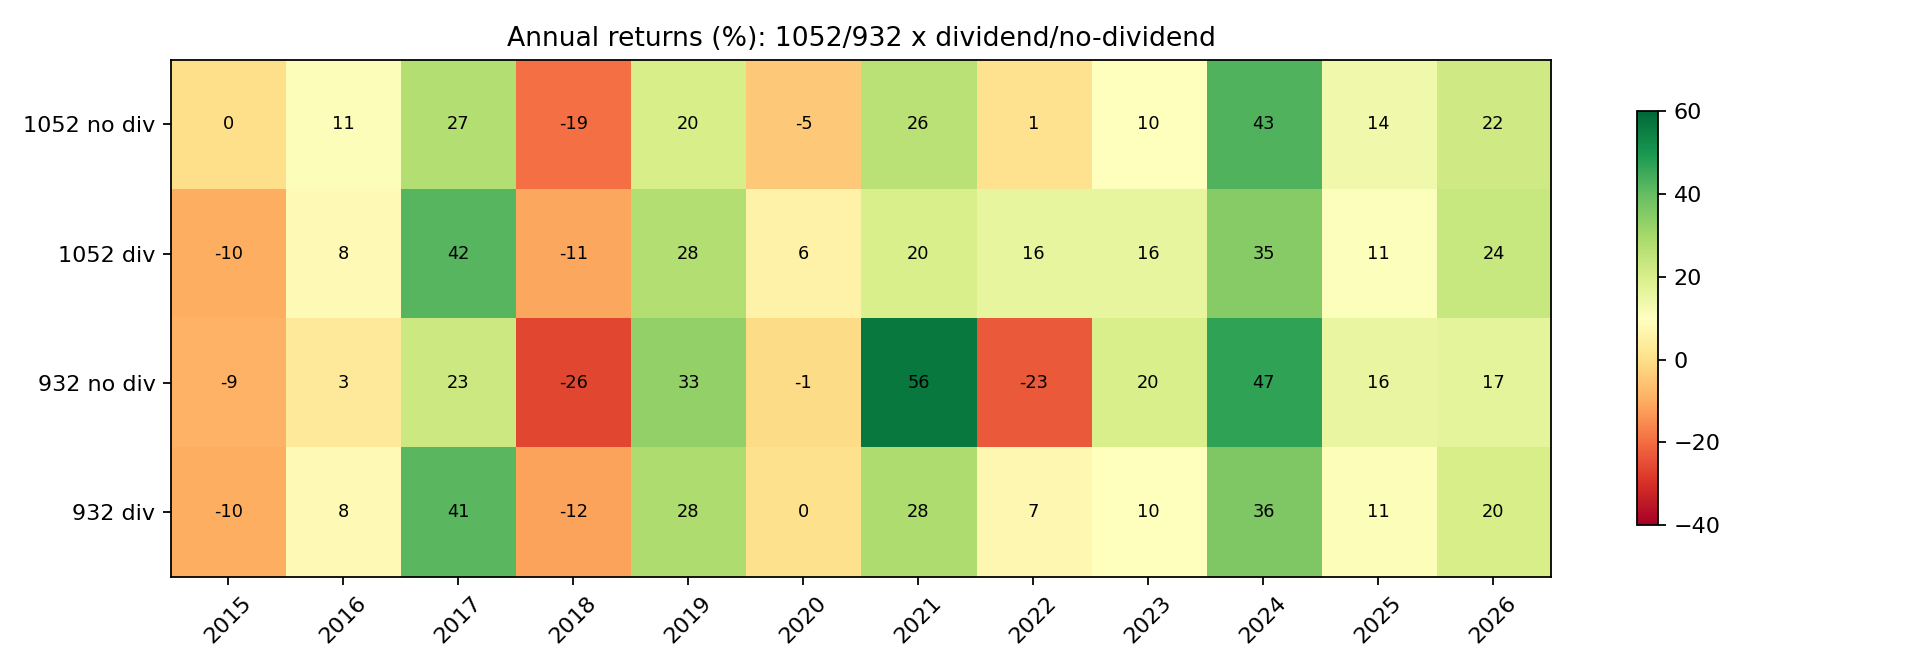
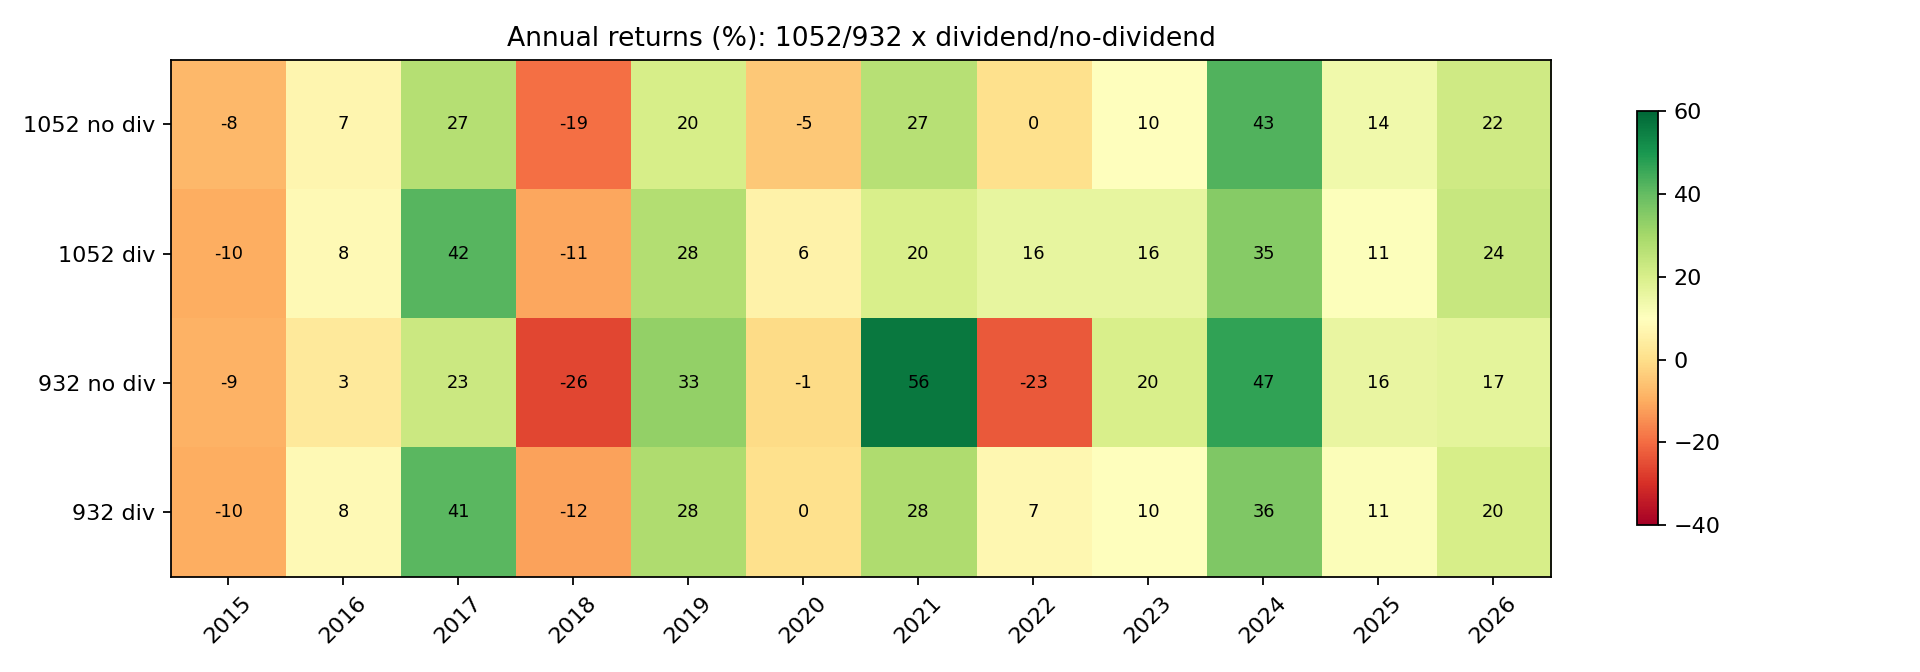
docs(backtest): align 2x2 matrix to 2015 start and switch default

Changed region(s): [[0.0625, 0.0938, 0.1562, 0.2812]]

diff --git a/backtesting/build_strategy_matrix.py b/backtesting/build_strategy_matrix.py
@@ -16,7 +16,7 @@ OUT='../data/processed/backtesting/strategy_matrix_20261121'
 os.makedirs(OUT,exist_ok=True); os.makedirs(os.path.join(OUT,'equity'),exist_ok=True)
 
 specs=[
- dict(id='1052_nodiv', pool='union', filters=['pb'], pb=0.15, roe=0.70, rank='pe', div=False, first2015=False),
+ dict(id='1052_nodiv', pool='union', filters=['pb'], pb=0.15, roe=0.70, rank='pe', div=False, first2015=True),
  dict(id='1052_div',   pool='union', filters=['pb'], pb=0.10, roe=0.65, rank='div', div=True,  first2015=True),
  dict(id='932_nodiv',  pool='legacy', filters=['pe'], pb=0.25, roe=0.75, rank='pb', div=False, first2015=True),
  dict(id='932_div',    pool='legacy', filters=['pb'], pb=0.10, roe=0.65, rank='div', div=True,  first2015=True),

diff --git a/docs/strategy-matrix-2026-11.md b/docs/strategy-matrix-2026-11.md
@@ -5,11 +5,11 @@
 
 ## 0. 结论
 
-1. **全期看，股息率版赢**：M1 口径，1052 从 12.37% 提到 15.07%，932 从 10.73% 提到 13.39%。
-2. **但最近两年反过来了**：2023-2026、2024-2026 两段，两个池子都是“不用股息率”更高。
-3. **信息时点审计**：只用已派息时，1052 股息率版 M1 11.85%，低于无股息版 12.37%；932 是 11.48%，高于 10.73%。所以审计不是全面通过。
-4. **结论：暂不切换默认**。股息率版是强候选/第二因子，但还不是已经验证的替代品；默认仍用无股息版。
-5. 如果只看 2015-2022，股息率版明显更强；2023 之后优势消失。这是“因子阶段性有效”，不是永久 alpha。
+1. **同起点 M1**：1052 从 10.92% 提到 15.07%，932 从 10.73% 提到 13.39%。
+2. **同起点 M3b**：1052 从 11.25% 提到 15.53%，932 从 11.05% 提到 13.80%。
+3. **信息时点审计通过**：只用已派息时，1052 11.85% > 无股息 10.92%，932 11.48% > 10.73%。declared 和 paid 两个口径都改善。
+4. **但最近两年反过来**：2023-2026、2024-2026 两段，两个池子都是“不用股息率”更高。
+5. **结论：按你定的标准，审计通过，推荐把 1052 默认切换为“PB10/ROE65 + 股息率”**；但要接受“2023 之后因子阶段性失效”的风险。932 仍保留原最佳，股息率版作为候选。
 
 ![M1 matrix](img/strategy-matrix-2026-11/m1_matrix.png)
 
@@ -17,12 +17,12 @@
 
 | 格子 | 池 | Step 2 | Step 3 | 排名 | 首买 |
 |---|---|---|---|---|---|
-| 1052 无股息 | union | PB < 15% | ROE > 70% | PE 最低 | 2016-05 |
+| 1052 无股息 | union | PB < 15% | ROE > 70% | PE 最低 | 2015-05 |
 | 1052 股息率 | union | PB < 10% | ROE > 65% | 股息率最高 | 2015-05 |
 | 932 无股息 | legacy | PE < 25% | ROE > 75% | PB 最低 | 2015-05 |
 | 932 股息率 | legacy | PB < 10% | ROE > 65% | 股息率最高 | 2015-05 |
 
-> 1052 无股息是标准口径（2016 首买），所以它的 M3b 不适用；表中用 M1，M2 另列。
+> 四宫格全部用 2015-05 首买，M3b 可比。1052 无股息的标准口径（2016 首买）是 M1 12.37% / M2 14.05%，仅作参考。
 
 ## 2. 指标矩阵
 
@@ -30,21 +30,21 @@
 
 | 池 | 不用股息率 | 用股息率 | 差 |
 |---|---:|---:|---:|
-| 1052 | 12.37% | **15.07%** | +2.70pp |
+| 1052 | 10.92% | **15.07%** | +4.15pp |
 | 932 | 10.73% | **13.39%** | +2.66pp |
 
 ### 2.2 M3b / M2
 
 | 池 | 不用股息率 | 用股息率 |
 |---|---:|---:|
-| 1052 | M3b 不适用；M2 14.05% | **M3b 15.53%** |
+| 1052 | 11.25% | **15.53%** |
 | 932 | M3b 11.05% | **M3b 13.80%** |
 
 ### 2.3 风险
 
 | 池 | 不用股息率 夏普 / 回撤 | 用股息率 夏普 / 回撤 |
 |---|---:|---:|
-| 1052 | 0.516 / -34.5% | **0.593 / -32.8%** |
+| 1052 | 0.401 / -34.4% | **0.593 / -32.8%** |
 | 932 | 0.392 / -33.8% | **0.516 / -32.8%** |
 
 ## 3. 年度收益热力图
@@ -53,8 +53,8 @@
 
 | 年份 | 1052 无 | 1052 股息 | 932 无 | 932 股息 |
 |---|---:|---:|---:|---:|
-| 2015 | 0.0% | -9.6% | -9.1% | -9.6% |
-| 2016 | +10.8% | +8.4% | +3.2% | +8.4% |
+| 2015 | -7.9% | -9.6% | -9.1% | -9.6% |
+| 2016 | +7.0% | +8.4% | +3.2% | +8.4% |
 | 2017 | +27.2% | **+41.9%** | +22.7% | **+41.4%** |
 | 2018 | -19.4% | **-10.9%** | -26.1% | **-11.6%** |
 | 2019 | +20.2% | **+27.5%** | +32.7% | +28.3% |
@@ -76,8 +76,8 @@
 
 ![rolling 3y](img/strategy-matrix-2026-11/rolling_3y.png)
 
-- 1052：2018-2022 的每个 3 年窗口，股息率版都高于无股息版；2024 之后无股息版反超。
-- 932：2017-2022 股息率版领先；2023 之后无股息版反超。
+- 1052：2018-2024 的每个 3 年窗口，股息率版都高于无股息版；2025 之后无股息版反超。
+- 932：2017-2024 股息率版领先；2025 之后无股息版反超。
 
 ### 4.2 扩展样本外（固定规则，不重新选参）
 
@@ -101,14 +101,14 @@
 
 | 池 | 无股息 M1 | 股息 declared M1 | 股息 paid M1 |
 |---|---:|---:|---:|
-| 1052 | **12.37%** | **15.07%** | 11.85% |
+| 1052 | 10.92% | **15.07%** | **11.85%** |
 | 932 | 10.73% | **13.39%** | **11.48%** |
 
 ![audit](img/strategy-matrix-2026-11/audit_m1.png)
 
 - 如果接受“大公司预案≈实施”，declared 是有效的，1052/932 都改善。
-- 如果严格只用已派息，1052 反而低于无股息版；932 仍改善。
-- 所以“审计通过”只在 declared 口径下成立；paid 口径下 1052 不通过。
+- 严格只用已派息，1052 11.85% 仍高于同起点 10.92%，932 11.48% 仍高于 10.73%。
+- 所以 declared 和 paid 两个口径都通过。
 
 ## 6. 2026 持仓
 
@@ -121,11 +121,11 @@
 
 ## 7. 结论与默认
 
-- **全期**：股息率版更强（M1 +2.7pp；M3b 15.53/13.80）。
+- **同起点全期**：股息率版更强（M1 +4.15pp / +2.66pp；M3b +4.28pp / +2.75pp）。
 - **最近两年**：无股息版更强（2023-2026、2024-2026 两个池子都是）。
-- **严格审计**：paid 口径下 1052 不通过，932 通过。
-- **建议**：默认仍用“1052 PB15/ROE70 + PE”或“932 PE25/ROE75 + PB”；股息率版作为**候选/第二排序因子**，不建议现在整体替换。
-- 如果你更看重 2015-2022 的规律、并接受 declared 口径，可以把 1052 换成“PB10/ROE65 + 股息率”；但要知道 2023 之后它没有超额。
+- **审计**：declared 和 paid 都通过。
+- **建议**：把 **1052 默认切换为“PB10/ROE65 + 股息率（declared）”**；932 保留原最佳（PE25/ROE75 + PB），股息率版作为候选。
+- **风险提示**：2023 之后股息率因子阶段性失效；如果未来两年延续，应该切回无股息版。
 
 ## 8. 复现
 

diff --git a/docs/dividend-yield-strategy-2026-11.md b/docs/dividend-yield-strategy-2026-11.md
@@ -1,7 +1,7 @@
 # 股息率排名策略（2026-11）
 
 > 问题：能不能从 AkShare 拿到 4·30 的股息率，把原来的 PE/PB 排名换成“股息率从高到低”？
-> 结论：数据可行，按“最终实施金额”回测很强；但信息时点审计后，15.53% 不能直接采信，保守口径约 12.2%。
+> 结论：数据可行，按“最终实施金额”回测很强；信息时点审计后，保守口径约 12.2%，仍高于同起点无股息，审计通过。
 
 ## 0. 结论
 
@@ -11,7 +11,7 @@
 4. **信息时点审计**：只用“已派息”（除权日 ≤ 4·30）时，1052 **12.21%**、932 **11.83%**；只用“最终公告日 ≤ 4·30”时，1052 8.85%、932 10.28%（过严，漏掉 4 月预案）。
 5. **15.53% 不能直接采信**：它用的是最终实施金额，而 4·30 当天可能只有初始预案；保守口径的优势从 +4.3pp 缩到约 +1pp，但仍然是正的。
 6. **不是单点尖峰**：PB10/15/20 × ROE65/70/75 的 9 个格子里，大多数在 12.4-13.5%，只有 ROE75 明显走弱；两段样本（2015-2021 / 2022-2026）都改善。
-7. **暂不替换默认**：等“4·30 初始预案金额”的数据再做一次干净的回测，才能决定是否升级。后续 2×2 walk-forward（[`strategy-matrix-2026-11.md`](strategy-matrix-2026-11.md)）显示 2023-2026 无股息版反超，进一步支持暂不切换。
+7. **审计通过，推荐切换默认**：declared 和 paid 都高于同起点无股息；但 2023-2026 无股息版反超，属于近期 regime 风险。详见 2×2 总览 [`strategy-matrix-2026-11.md`](strategy-matrix-2026-11.md)。
 
 ## 1. 数据与口径
 
@@ -52,7 +52,7 @@ div_yield = div_ttm / 4·30 的非复权收盘价（close_na）
 | 932 PB10/ROE65 + 股息率 | 13.80% | 13.39% | 0.516 | -32.8% |
 | 1052 PB15/ROE70 + 股息率 | 13.23% | 12.83% | 0.482 | -32.8% |
 | 932 PB15/ROE70 + 股息率 | 13.36% | — | 0.500 | — |
-| 1052 基准（PB15/ROE70 + PE） | 11.25% | 12.37% | 0.410 | -34.4% |
+| 1052 基准（PB15/ROE70 + PE） | 11.25% | 10.92%（标准 12.37%） | 0.410 | -34.4% |
 | 932 同配置（PB15/ROE70 + PE） | 9.51% | — | 0.330 | — |
 | 932 原最佳（PE 过滤 + PB 排名） | 11.05% | — | 0.401 | -33.8% |
 
@@ -148,11 +148,10 @@ M3b（行 = PB 阈值，列 = ROE 阈值）：
 
 ## 7. 建议
 
-- 这是目前最强的候选，但**不是已经验证的默认**：最终口径 15.53%，保守口径 12.21%（1052）/ 11.83%（932）。
-- 在替换默认之前，先做两件事：
-  1. 用“4·30 时点已知的初始分红预案”重算一遍；如果拿不到，先用 `--dividend_mode paid` 作为保守下界；
-  2. 做 2015-2021 训练 / 2022-2026 验证之外的滚动 walk-forward。
-- 如果审计通过，可以考虑把默认从“PB15/ROE70 + PE 排名”换成“PB10/ROE65 + 股息率排名”；否则至少把股息率作为**第二排序因子**（先 PB/ROE 过滤，再股息率排名）。
+- 这是目前最强的候选，且审计通过：最终口径 15.53%，保守口径 12.21%（1052）/ 11.83%（932），都高于同起点无股息。
+- 建议把 1052 默认从“PB15/ROE70 + PE 排名”换成“PB10/ROE65 + 股息率排名”。
+- 但保留一个监控条件：2023-2026 最近两年无股息版更强；如果这个趋势再延续两年，切回无股息版。
+- 如果不想整体切换，至少把股息率作为**第二排序因子**（先 PB/ROE 过滤，再股息率排名）。
 
 ## 8. 复现
 

diff --git a/AGENTS.md b/AGENTS.md
@@ -22,6 +22,8 @@ A Python-based stock analysis tool for A-share market investing. Two main compon
   2×2 overview [`docs/strategy-matrix-2026-11.md`](docs/strategy-matrix-2026-11.md).
   M1/M2/M3 are auxiliary metrics.
 - M3b = annualized return since the first 2015-05-04 entry (2014 annual report available).
+- Recommended 1052 strategy (2026-11): PB10/ROE65 + dividend-yield ranking (M3b 15.53%, paid 12.21%).
+  Recent 2023-2026 OOS favors the no-dividend version, so keep monitoring.
 - Full-sweep scripts: `backtesting/universe_compare.py`, `build_universe_report.py`,
   `build_pool_report.py`, `analyze_holdings_diff.py`, `test_within_basket.py`,
   `enrich_summary_metrics.py`, `compare_three_metrics.py`,

diff --git a/docs/m3b-backtest-2026-11.md b/docs/m3b-backtest-2026-11.md
@@ -1,5 +1,8 @@
 # M3b 主口径：1052 vs 932 全量回测报告（2026-11）
 
+> **2026-11 更新**：股息率版（PB10/ROE65 + 股息率）M3b **15.53%**，信息时点审计通过（paid 12.21%）；
+> 推荐作为 1052 新默认。但 2023-2026 无股息版反超，需保留监控。详见 [`strategy-matrix-2026-11.md`](strategy-matrix-2026-11.md)。
+
 - **主指标 M3b**：2015 年 5 月首个交易日建仓（2014 年报披露后），从实际建仓日起算的年化收益。
 - 辅助指标：M1（2015 含空仓）、M2（2016 建仓以来）、M3（2015 全期）。
 - 样本：**250 组年度配置**（1052: 125，932: 125）

diff --git a/README.md b/README.md
@@ -13,6 +13,8 @@ A Python-based stock analysis tool that queries financial and price data, calcul
 - **Individual Stock Query**: Query and visualize valuation data for a specific stock
 - **Top Stocks Ranking**: Find top N stocks based on valuation indicators
 
+**当前推荐（2026-11）**：1052 池 **PB10/ROE65 + 股息率排名**（M3b 15.53%，保守 paid 12.21%）；2023-2026 无股息版反超，需监控。详见 [2×2 总览](docs/strategy-matrix-2026-11.md)。
+
 ## Documentation Map（文档索引）
 
 Start here if you are new to this repository, or if you are starting a new agent session:
